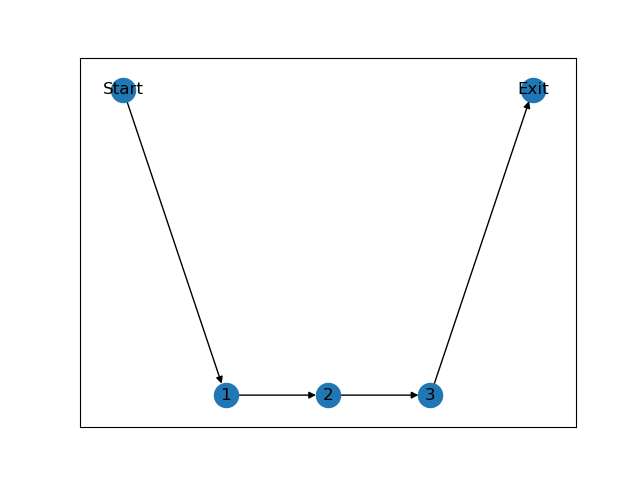
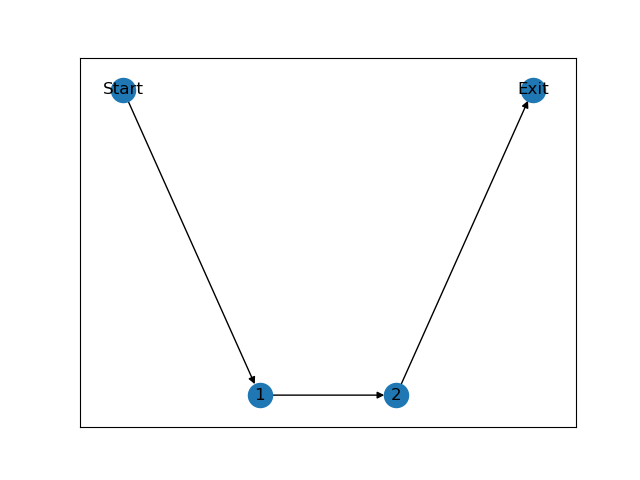
+ require in each task

diff --git a/training_data/utils/TASK_Generator.py b/training_data/utils/TASK_Generator.py
@@ -1,12 +1,14 @@
 import xml.etree.ElementTree as ET
 from xml.dom import minidom
+import math
 
 class TaskGenerator:
-    def __init__(self, edges, nodes, duration, output):
+    def __init__(self, edges, nodes, duration, demand, output):
         self.edges = edges
         self.num_of_tasks = 0 # Gets Incremented each time createTask is called.
         self.nodes = nodes
         self.duration = duration
+        self.demand = demand
 
         self.root = self.initRoot()
         self.addDataType()
@@ -86,7 +88,7 @@ class TaskGenerator:
             self.addChild(destination_node, 'task', ['value'], [str(edge[1])])
             destination_id += 1
 
-    def createRequire(self, task_node, edges):
+    def createRequire(self, task_node, edges, demand=1):
         """Header for Generate"""
         requires_node = self.addChild(task_node, 'requires')
         requirement_id = 0
@@ -94,12 +96,14 @@ class TaskGenerator:
             requirement_node = self.addChild(requires_node, 'requirement' ,['id'], [str(requirement_id)])
             self.addChild(requirement_node, 'type', ['value'], ["0"])
             self.addChild(requirement_node, 'source', ['value'], [str(edge[0])])
-            self.addChild(requirement_node, 'count', ['min', 'max'], ["1", "1"])
+            self.addChild(requirement_node, 'count', ['min', 'max'], [str(demand), str(demand)])
 
     def createRequireAndGenerate(self, task_parent):
         for i in range(self.nodes):
             duration = self.duration[i]
-            task_node = self.createTaskHeader(task_parent, duration=duration)
+            task_node = self.createTaskHeader(task_parent, 
+                                              duration=duration #remove duration arg if required
+                                              ) 
             node = i+1
             node_edges = self.getNodeInfoFromEdges(node)
             start_edges, node_edges, exit_edges = self.organizeEdges(node_edges)
@@ -108,17 +112,20 @@ class TaskGenerator:
                 edge = [(0, start_edges[0][1])] 
                 self.createRequire(task_node, edge)
 
-            if node_edges: 
+            demand = math.ceil(self.demand[i][0])
+            if node_edges:  
                 for node_edge in node_edges:
                     if node_edge[1] == node:
-                        self.createRequire(task_node, [node_edge])
+                        self.createRequire(task_node, 
+                                           [node_edge], 
+                                           demand #remove demand arg if required
+                                           ) 
                     elif node == node_edge[0]:
                         self.createGenerate(task_node, [node_edge])
 
             if exit_edges: 
                 edge = [(exit_edges[0][0], self.nodes + 1 )] 
                 self.createGenerate(task_node, edge)
-
 
     def addChild(self, parent, child_name, key_list=[], value_list=[]):
         node = ET.SubElement(parent, child_name)
@@ -145,7 +152,6 @@ class TaskGenerator:
                 node_edges.append(edge)
 
         return start_edges, node_edges, exit_edges
-
 
     def writeFile(self, output_file):
         rough_string = ET.tostring(self.root, 'utf-8')

diff --git a/training_data/utils/DAG_Generator.py b/training_data/utils/DAG_Generator.py
@@ -1,11 +1,11 @@
 """
  Code forked and modified from https://github.com/Livioni/DAG_Generator 
 """
-
 import random, math 
 import numpy as np 
 import matplotlib.pyplot as plt 
 import networkx as nx 
+import sys
 
 class DAG:
     def __init__(self, nodes, max_out = 2, alpha = 0.5, beta = 1.0 ):
@@ -122,29 +122,27 @@ class DAG:
 
         #############################################plot###################################################
         self.edges = edges
-        # self.position = position 
         self.into_degree = into_degree
         self.out_degree = out_degree
-        # return edges,into_degree,out_degree,position
 
     def plot_DAG(self):
+        # To do: Add labels to Nodes
         g1 = nx.DiGraph()
         g1.add_edges_from(self.edges)
         nx.draw_networkx(g1, arrows=True, pos=self.position)
         plt.savefig("DAG.png", format="PNG")
         return plt.clf
 
-    
     def getInfo(self):
         print(f"\nNo.of Nodes: {self.nodes}, No.of edges = {len(self.edges)}\n")
         for i in range(self.nodes):
             print(f"\nNode: {i+1} \nProcessing: Duration = {self.duration[i]}, \nRequire: CPU = {self.demand[i][0]}, Memory = {self.demand[i][1]}")
-
         print("\nEdges")
         print(self.edges)
-
         print(f"\nInto Degree: {self.into_degree}")
         print(f"Out Degree: {self.out_degree}")
         print(f"Max Out: {self.max_out}")
+        print("\nDemand")
+        print(self.demand)
 
 

diff --git a/training_data/generate.py b/training_data/generate.py
@@ -1,7 +1,7 @@
 from utils.TASK_Generator import TaskGenerator
 from utils.DAG_Generator import DAG
 
-num_of_nodes = 3
+num_of_nodes = 2
 
 # set_dag_size = [20,30,40,50,60,70,80,90]             #random number of DAG  nodes       
 # set_max_out = [1,2,3,4,5]                            #max out_degree of one node
@@ -12,4 +12,5 @@ dag = DAG(nodes=num_of_nodes, max_out=3)
 dag.plot_DAG()
 dag.getInfo()
 
-TaskGenerator(dag.edges, num_of_nodes, dag.duration, 'dev_output.xml')
+TaskGenerator(dag.edges, num_of_nodes, dag.duration, dag.demand,'dev_output.xml')
+
